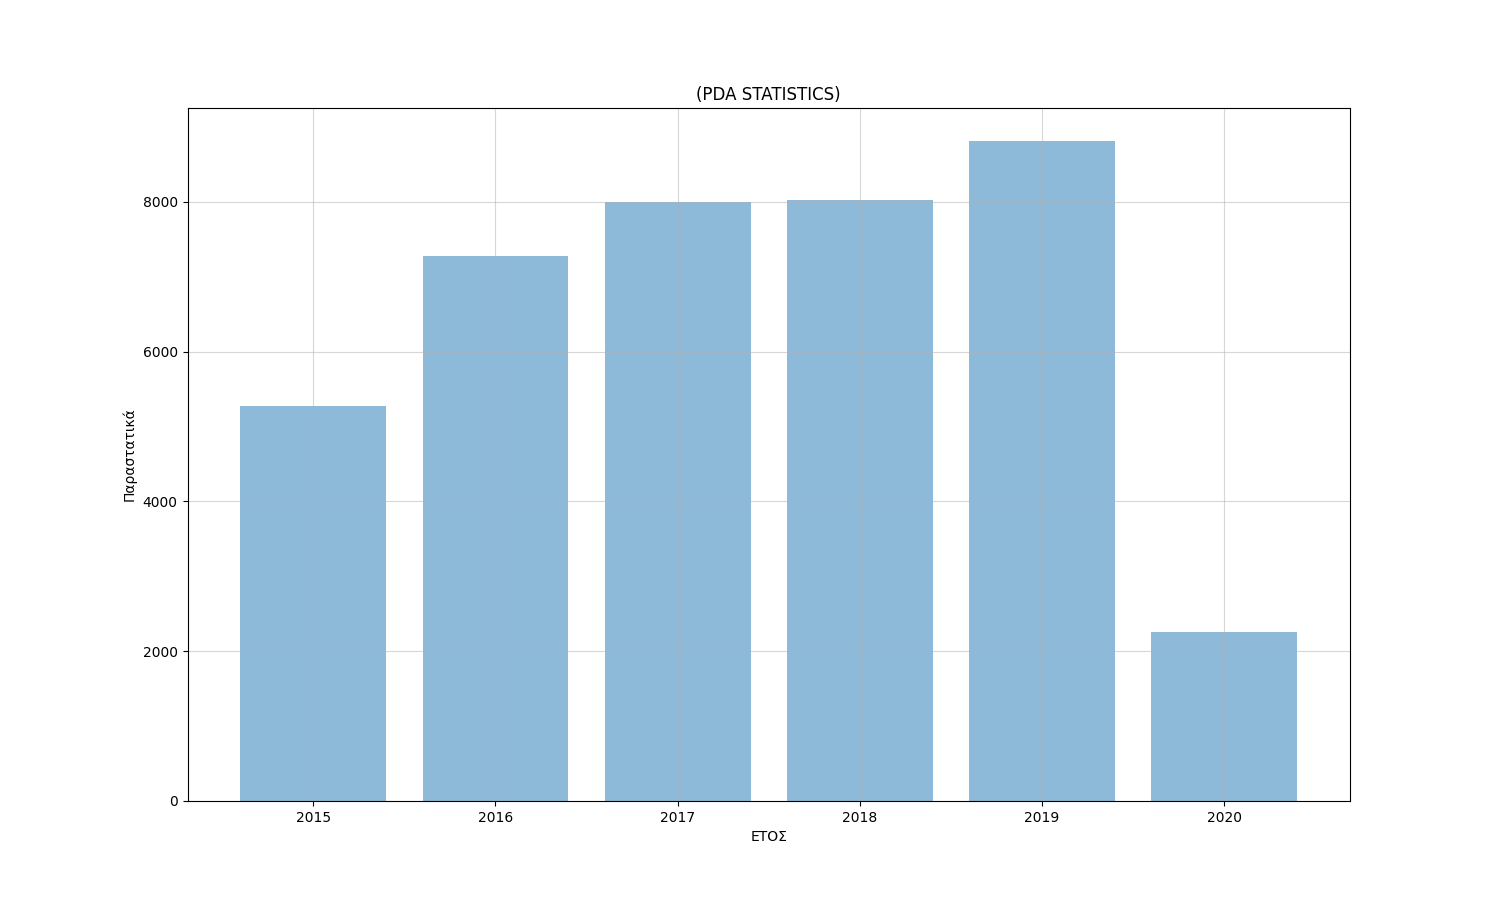
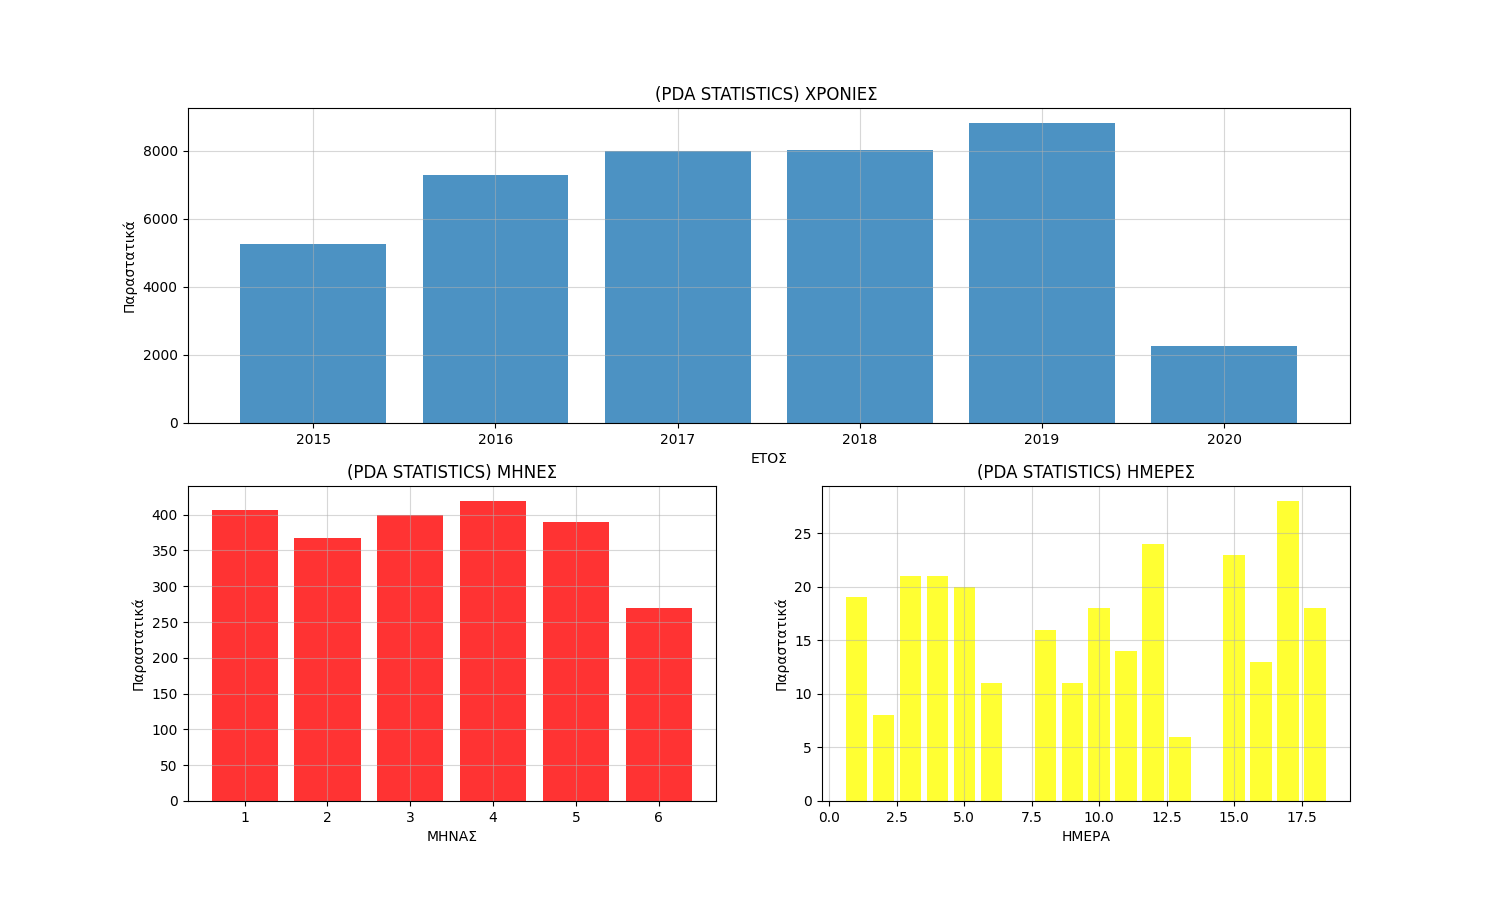
@Ioannis E. Kommas (PyCharm Commit and Push Code Lines) All Rights Reserved (Private Repository)

diff --git a/A_DAILY_REPORTS/mini_apps/pda_statistics_app.py b/A_DAILY_REPORTS/mini_apps/pda_statistics_app.py
@@ -17,35 +17,26 @@ answer_04 = pd.read_sql_query(pda_stats_sql_query.query_04, sql_connect.sql_cnx(
 answer_05 = pd.read_sql_query(pda_stats_sql_query.query_05, sql_connect.sql_cnx())
 answer_06 = pd.read_sql_query(pda_stats_sql_query.query_06, sql_connect.sql_cnx())
 
-# ---------------- PLOT YEARS----------------
+# ---------------- PLOT ----------------
 X = answer_05['YEAR']
 y = answer_05['Count "Παραστατικά"']
 plt.figure(figsize=(15, 9))
-plt.subplot(xlabel='ΕΤΟΣ', ylabel='Παραστατικά' , title= '(PDA STATISTICS) ΧΡΟΝΙΕΣ ')
-plt.bar(X, y, alpha=0.5)
+plt.subplot(2, 1, 1,xlabel='ΕΤΟΣ', ylabel='Παραστατικά' , title= '(PDA STATISTICS) ΧΡΟΝΙΕΣ ')
+plt.bar(X, y, alpha=0.8)
 plt.grid(True, alpha=0.5)
-plt.savefig('years_pda_views.png')
-plt.show()
-
-# ---------------- PLOT MONTHS----------------
+plt.subplot(2, 2, 3, xlabel='ΜΗΝΑΣ', ylabel='Παραστατικά' , title= '(PDA STATISTICS) ΜΗΝΕΣ')
 X = answer_04['MONTH']
 y = answer_04['Count "Παραστατικά"']
-plt.figure(figsize=(15, 9))
-plt.subplot(xlabel='ΜΗΝΑΣ', ylabel='Παραστατικά' , title= '(PDA STATISTICS) ΜΗΝΕΣ')
-plt.bar(X, y, alpha=0.5)
+plt.bar(X, y, alpha=0.8, color='red')
 plt.grid(True, alpha=0.5)
-plt.savefig('months_pda_views.png')
-plt.show()
-
-# ---------------- PLOT DAY ----------------
+plt.subplot(2, 2, 4, xlabel='ΗΜΕΡΑ', ylabel='Παραστατικά' , title= '(PDA STATISTICS) ΗΜΕΡΕΣ')
 X = answer_03['DAY']
 y = answer_03['Count "Παραστατικά"']
-plt.figure(figsize=(15, 9))
-plt.subplot(xlabel='ΗΜΕΡΑ', ylabel='Παραστατικά' , title= '(PDA STATISTICS) ΗΜΕΡΕΣ')
-plt.bar(X, y, alpha=0.5)
+plt.bar(X, y, alpha=0.8, color= 'yellow')
 plt.grid(True, alpha=0.5)
-plt.savefig('days_pda_views.png')
+plt.savefig('pda_views.png')
 plt.show()
+
 
 # ---------------- EXCEL EXPORT ----------------
 pda_stats_excel_export.export(path, answer_01, answer_02, answer_03, answer_04, answer_05, answer_06)
@@ -56,6 +47,4 @@ slack_app.send_text("""
 `Ενημερώθηκε Το Αρχείο: sql.xlsx`
 """, slack_app.channels[1])
 slack_app.send_files('sql.xlsx', path, 'xlsx', slack_app.channels[1])
-slack_app.send_files('years_pda_views.png', 'years_pda_views.png', 'png', slack_app.channels[1])
-slack_app.send_files('months_pda_views.png', 'months_pda_views.png', 'png', slack_app.channels[1])
-slack_app.send_files('days_pda_views.png', 'days_pda_views.png', 'png', slack_app.channels[1])
+slack_app.send_files('pda_views.png', 'pda_views.png', 'png', slack_app.channels[1])

diff --git a/A_DAILY_REPORTS/mini_apps/Elounda_Market_Statistics.py b/A_DAILY_REPORTS/mini_apps/Elounda_Market_Statistics.py
@@ -29,6 +29,7 @@ kataskevastes_lst = ['COCA COLA 3E', 'Pepsico - HBH', 'Κρι Κρι', 'ΟΛΥΜ
                      'Καλαμαράκης Κ.Ε. Α.Β.Ε.Ε. - Καλας Α.Ε.', 'SCA Hygiene Products A.E.',
                      'Κονσερβοοπιια Βορειου Αιγαιου Α.Ε.Β.Ε.', 'Sonel A.E. Loreal Hellas S.A.'
                      ]
+
 coca_cola = (
     'AMITA', 'AVRA', 'Coca-Cola', 'Fanta', 'Frulite', 'Monster', 'Nestea', 'Powerade', 'Schweppes', 'Sprite', 'Λυττός')
 pepsico = ('7up', 'Lipton', 'Pepsi', 'RockStar', 'Ήβη')
@@ -291,6 +292,8 @@ plt.bar(X, y, alpha=0.5)
 plt.grid(True, alpha=0.5)
 plt.savefig('views.png')
 plt.show()
+
+
 answer = []
 answer_sum = []
 answer_count = []
@@ -329,6 +332,7 @@ answer_prom_count = []
 for i in range(len(promi8eutes_list)):
     answer_prom.append(pd.read_sql_query(querry_suppliers(promi8eutes_list[i]), sql_connect.sql_cnx()))
     answer_prom_count.append(len(answer_prom[i]))
+
 
 # -------------OPEN FILE | WRITE ----------------------------
 with pd.ExcelWriter(output_file, engine='xlsxwriter') as writer:  # doctest: +SKIP
@@ -508,6 +512,30 @@ with pd.ExcelWriter(output_file, engine='xlsxwriter') as writer:  # doctest: +SK
     # INSERT IMAGES
     # worksheet.insert_image('A27', 'sap.png', {'x_scale': 0.2, 'y_scale': 0.2})
     # worksheet.insert_image('I27', 'crystal.png', {'x_scale': 0.27, 'y_scale': 0.29})
+
+plt.figure(figsize=(50, 50))
+j=1
+for i in range(len(c)):
+    y = []
+    y.append(year_2012[i])
+    y.append(year_2013[i])
+    y.append(year_2014[i])
+    y.append(year_2015[i])
+    y.append(year_2016[i])
+    y.append(year_2017[i])
+    y.append(year_2018[i])
+    y.append(year_2019[i])
+    y.append(year_2020[i])
+    x = ['12', '13', '14', '15', '16', '17', '18', '19', '20']
+    Y = y
+    plt.subplot(8, 8, j, ylabel='ΤΖΙΡΟΣ', title=kataskevastes_lst[i])
+    plt.bar(X, y, alpha=0.5)
+    j+=1
+
+plt.grid(True, alpha=0.5)
+plt.savefig('kataskevastis_views.png')
+plt.show()
+
 slack_app.send_text("""
 >ΣΤΑΤΙΣΤΙΚΑ ELOUNDA MARKET
 `Ενημερώθηκε Το Αρχείο: EM.xlsx`
@@ -515,3 +543,4 @@ slack_app.send_text("""
 
 slack_app.send_files('EM.xlsx', output_file, 'xlsx', slack_app.channels[1])
 slack_app.send_files('views.png', 'views.png', 'png', slack_app.channels[1])
+slack_app.send_files('kataskevastis_views.png', 'kataskevastis_views.png', 'png', slack_app.channels[1])
